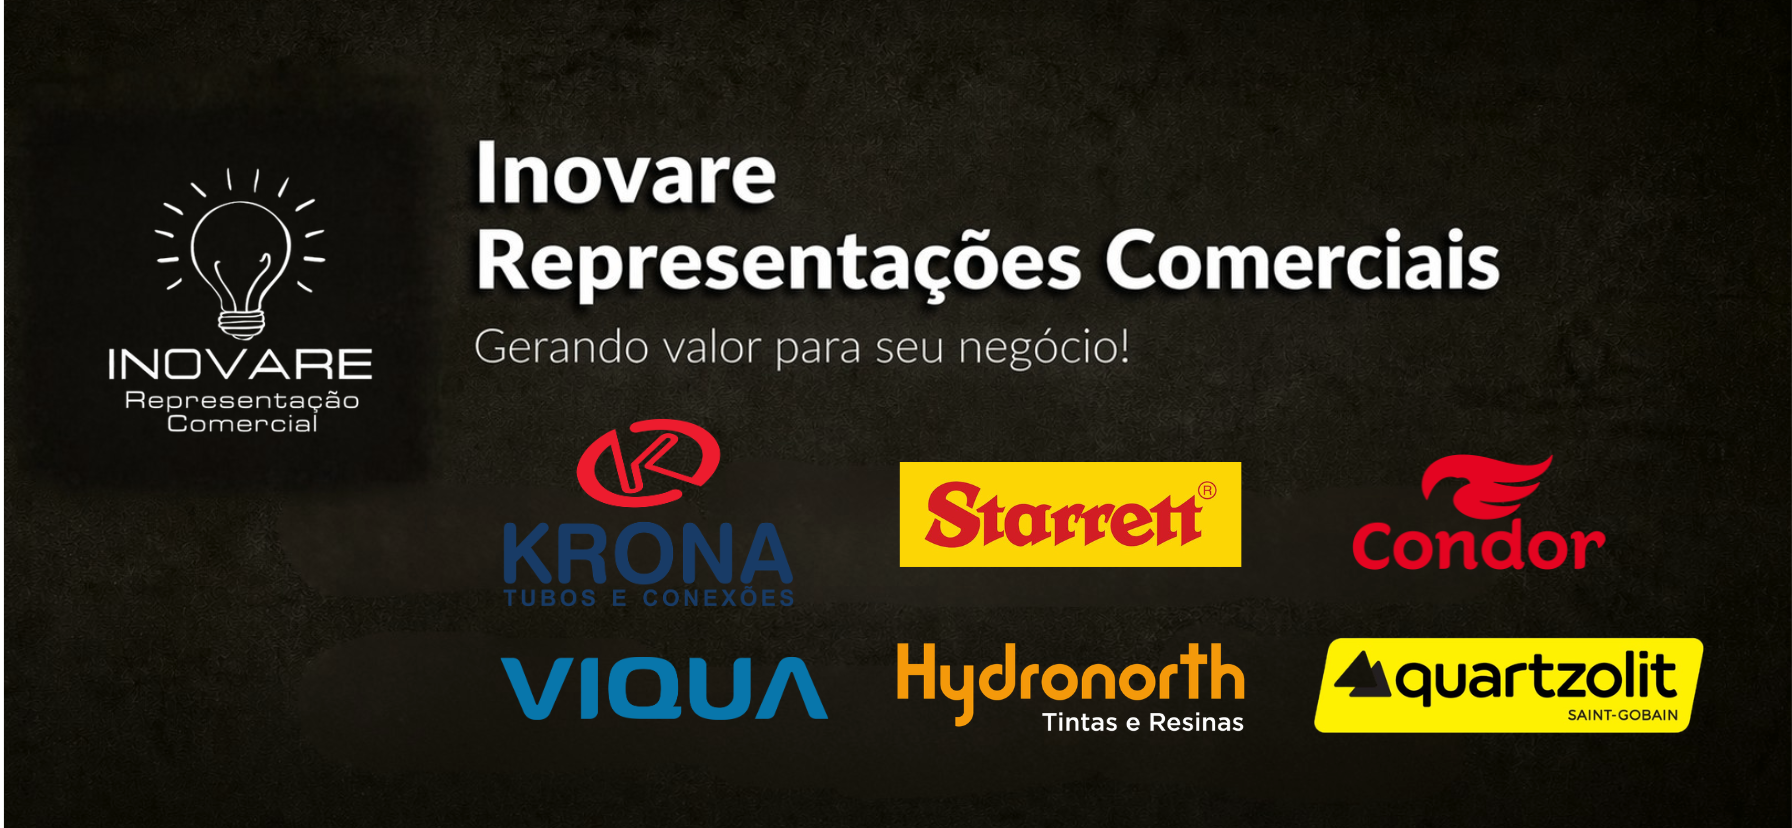
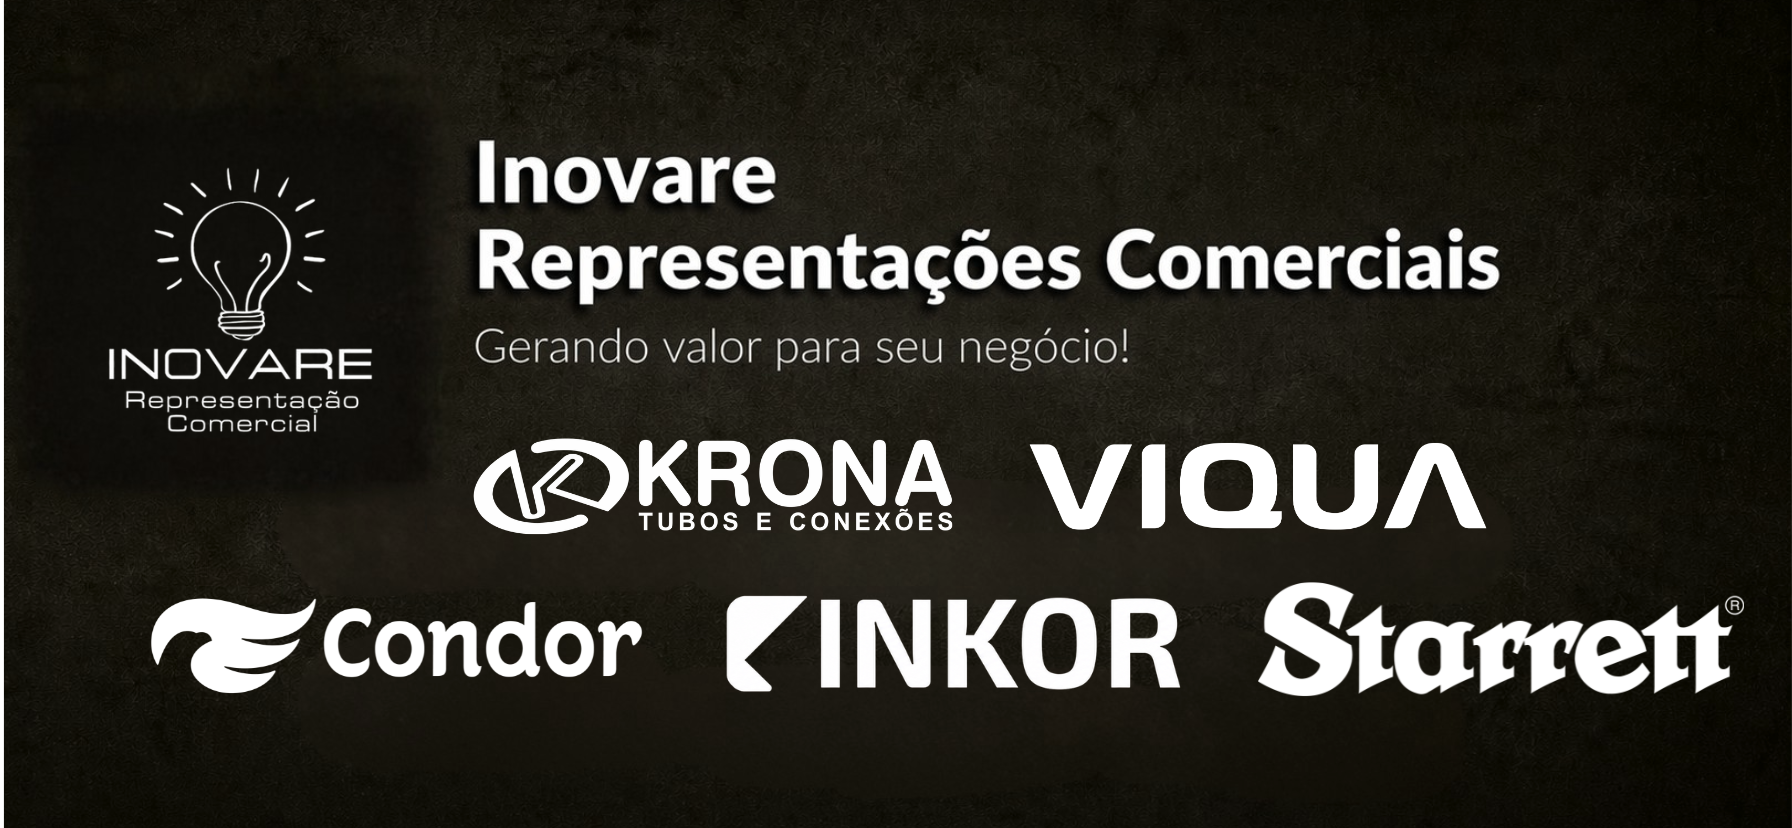
add - mudança da capa por uma atualizada

Changed region(s): [[0.0625, 0.4831, 0.9688, 0.9058]]

diff --git a/index.html b/index.html
@@ -23,11 +23,13 @@
   </header>
 
   <main>
-    <section class="hero" id="inicio">
+<section class="hero" id="inicio">
+      <img src="/static/images/Capa site atualizado.png" alt="Banner Inovare - Home" class="hero-banner">
       <div class="container hero-grid">
         <div class="hero-copy">
           <div class="hero-branding">
             <img src="/static/images/logo-inovare.jpg" alt="Inovare logo" class="hero-logo">
+
             <div>
               <span class="eyebrow">Inovare Representações Comerciais</span>
               <p class="hero-tagline">Catálogos, códigos de barras e atendimento premium para o varejo e indústria da construção.</p>

diff --git a/templates/index.html b/templates/index.html
@@ -1,7 +1,7 @@
 {% extends 'base.html' %}
 
 {% block content %}
-<section class="hero" id="inicio"><img src="/static/images/capa-site-atualizado.png" alt="Banner Inovare - Home"></section>
+<section class="hero" id="inicio"><img src="/static/images/Capa site atualizado.png" alt="Banner Inovare - Home"></section>
 
 <!-- ============================================================
      INOVARE — MELHORIA PARTE 2: SOBRE A EMPRESA
